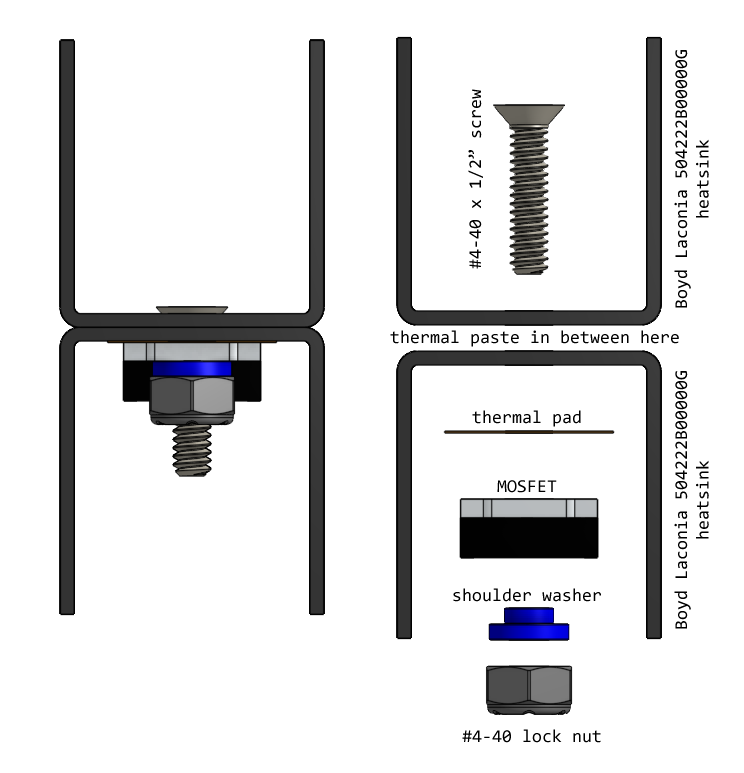
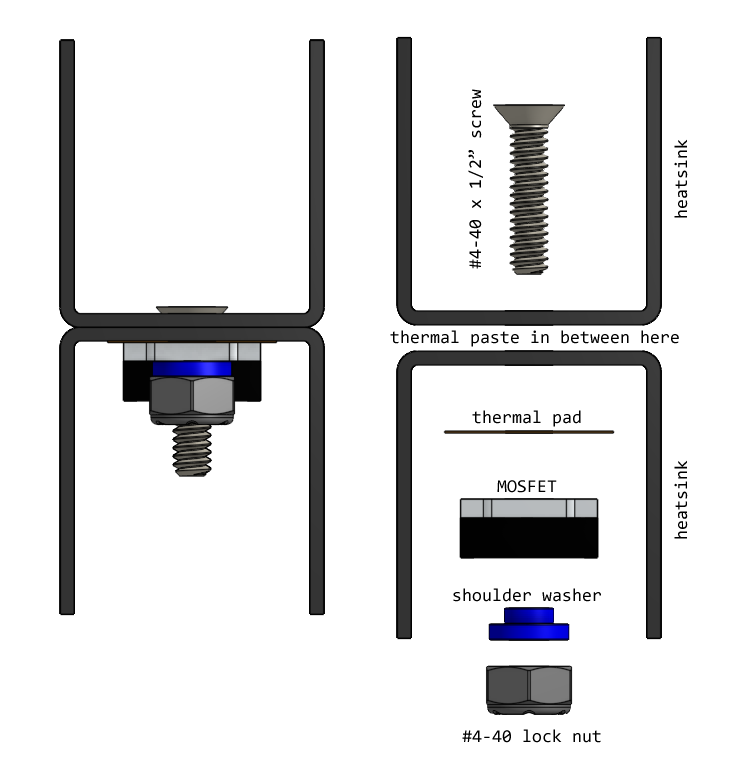
cheaper heatsink part number

Changed region(s): [[0.8965, 0.4657, 0.9583, 0.8072], [0.8965, 0.0621, 0.9583, 0.4036]]

diff --git a/doc/build-guide-lite-470khz/shopping.md b/doc/build-guide-lite-470khz/shopping.md
@@ -138,7 +138,11 @@ Quantity: **one small package of rigid two-part epoxy**. Use a small amount to j
 
 ![Boyd 504222B00000G heatsink](../imgs-shopping/small/heatsink-boyd-504222B00000G.s.jpg)
 
-Quantity: **two Boyd 504222B00000G heatsinks**. Stack them around Q1 as shown in the Lite build guide to cool the main RF switch and brace it against the enclosure wall. Shop at [Digi-Key](https://www.digikey.com/en/products/detail/boyd-laconia-llc/504222B00000G/5833).
+Quantity: **two tall stamped heatsinks for TO-220**. Stack them around Q1 as shown in the Lite build guide to cool the main RF switch and brace it against the enclosure wall.
+
+[Assmann WSW Components V2006B @ Digi-Key](https://www.digikey.com/en/products/detail/assmann-wsw-components/V2006B/3476155)
+
+[Boyd Laconia 504222B00000G @ Digi-Key](https://www.digikey.com/en/products/detail/boyd-laconia-llc/504222B00000G/5833)
 
 ### Cooling fan
 
